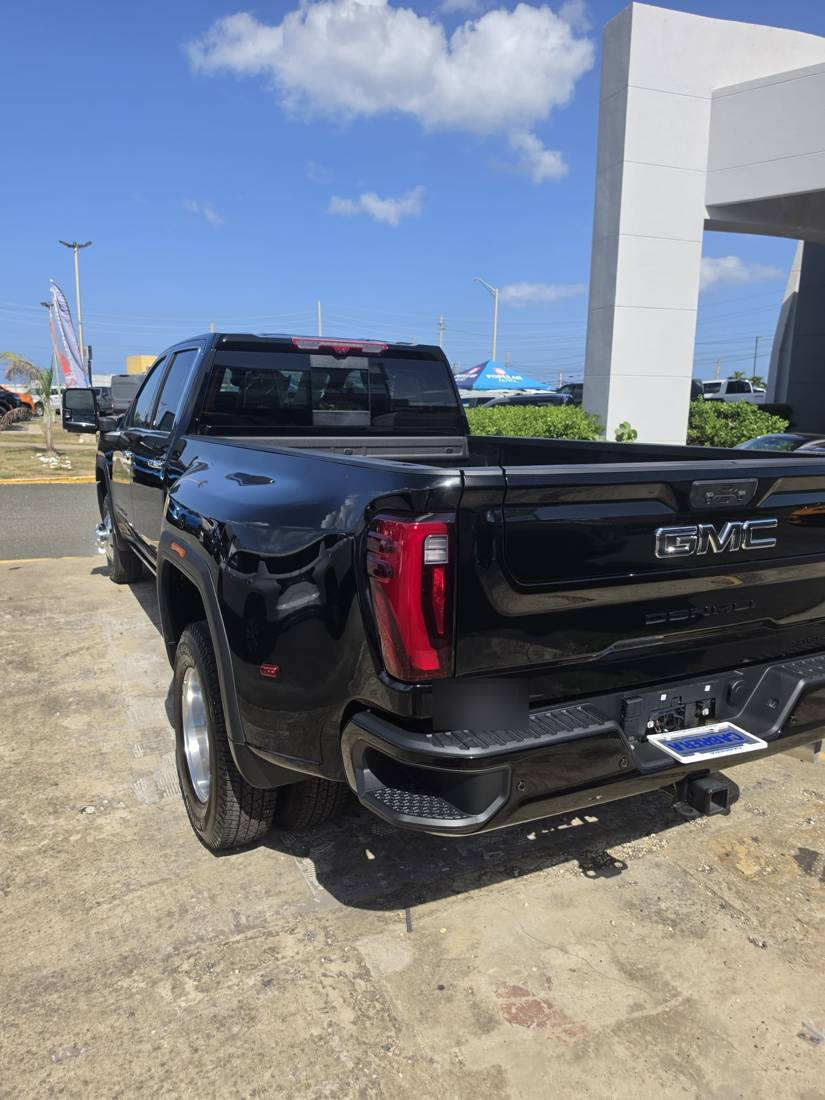
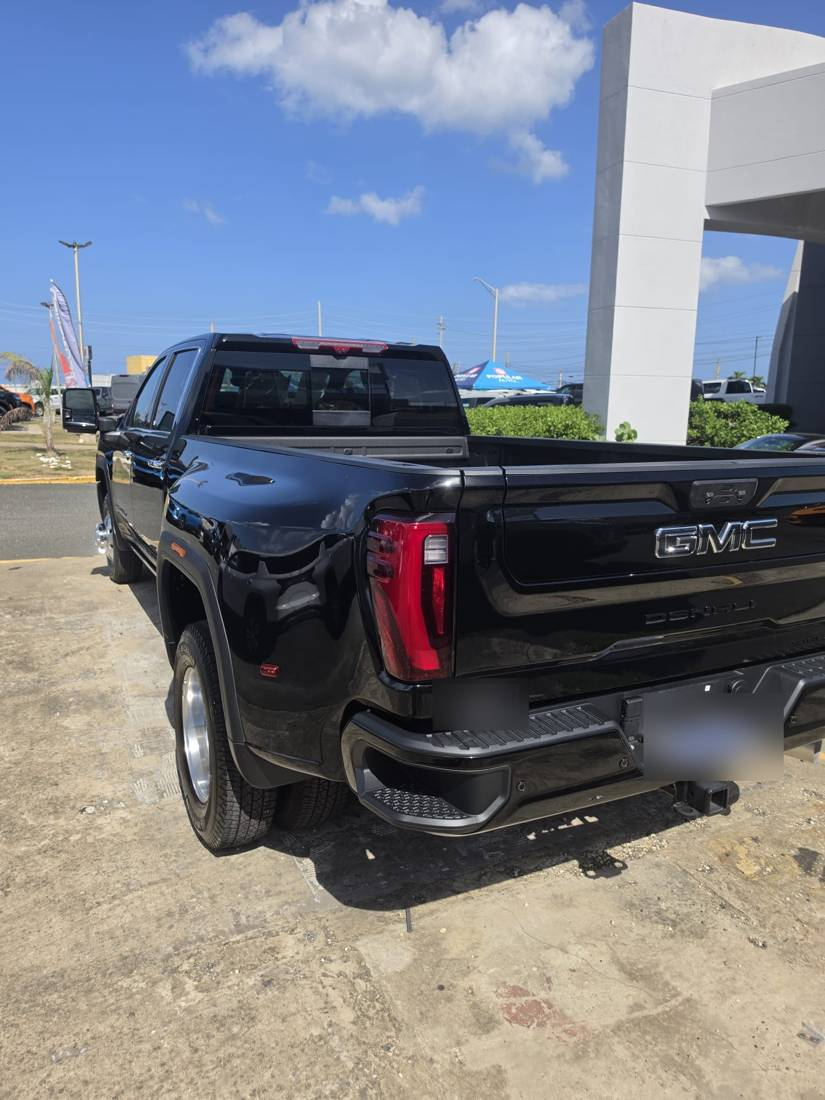
Tapar marcos y emblemas de dealer restantes; visor de fotos móvil arreglado, botón atrás cierra, menú inferior móvil
Claude-Session: https://claude.ai/code/session_01Vix2CLa9gZnaVcPx4aoSg8

Changed region(s): [[0.7576, 0.6182, 0.9697, 0.7109]]

diff --git a/index.html b/index.html
@@ -8,8 +8,8 @@
 <style>
 :root{--bg:#04050a;--bg2:#0a0d16;--card:#0f131e;--line:#1c2233;--txt:#f2f5fb;--mut:#8d96ab;
 --b1:#3d6a96;--b2:#9fb6cc;--b3:#c9a86a;--grad:linear-gradient(120deg,#22374f 0%,#3d6a96 50%,#6f93b6 100%);--gradt:linear-gradient(100deg,#f1f3f6 0%,#b9c7d6 45%,#7f9cb8 100%);--gold:linear-gradient(120deg,#8a6d3b,#d8bb7d 50%,#a8854a)}
-*{box-sizing:border-box;margin:0;padding:0}html{scroll-behavior:smooth}
-body{background:var(--bg);color:var(--txt);font-family:Inter,system-ui,sans-serif;line-height:1.5;overflow-x:hidden}
+*{box-sizing:border-box;margin:0;padding:0}html{scroll-behavior:smooth;overflow-x:clip;max-width:100%}
+body{background:var(--bg);color:var(--txt);font-family:Inter,system-ui,sans-serif;line-height:1.5;overflow-x:clip;max-width:100%}
 a{color:inherit;text-decoration:none}img{display:block;max-width:100%}button,input,select,textarea{font:inherit;color:inherit}
 .wrap{max-width:1260px;margin:0 auto;padding:0 20px}
 .h2{font-family:"Barlow Condensed","Oswald","Arial Narrow",sans-serif;font-size:clamp(32px,4.4vw,52px);text-transform:uppercase;line-height:1}
@@ -22,7 +22,7 @@ a{color:inherit;text-decoration:none}img{display:block;max-width:100%}button,inp
 .btn.wa{background:linear-gradient(120deg,#13a34a,#3ddc84)}
 .btn.sm{padding:9px 16px;font-size:13px}
 /* ticker */
-.ticker{background:linear-gradient(90deg,#0d1118,#1b2533 50%,#0d1118);color:#d7dee8;border-bottom:1px solid rgba(201,168,106,.25);font-weight:600;font-size:13px;overflow:hidden;white-space:nowrap;position:relative;z-index:41}
+.ticker{contain:paint;max-width:100vw;background:linear-gradient(90deg,#0d1118,#1b2533 50%,#0d1118);color:#d7dee8;border-bottom:1px solid rgba(201,168,106,.25);font-weight:600;font-size:13px;overflow:hidden;white-space:nowrap;position:relative;z-index:41}
 .ticker .row{display:inline-flex;gap:46px;padding:9px 0;animation:tick 60s linear infinite}
 .ticker:hover .row{animation-play-state:paused}
 .ticker span{display:inline-flex;align-items:center;gap:46px}.ticker span::after{content:"◆";color:#c9a86a;opacity:.8;font-size:9px}
@@ -47,7 +47,7 @@ header{position:sticky;top:0;z-index:40;background:rgba(4,5,10,.72);backdrop-fil
 .now small{color:var(--mut);font-size:12px;text-transform:uppercase;letter-spacing:.12em}.now b{display:block;font-family:"Barlow Condensed","Arial Narrow",sans-serif;font-size:28px;text-transform:uppercase;line-height:1.05}.now em{font-style:normal;color:#9fd8ff}
 .dots{position:absolute;right:24px;top:24px;z-index:3;display:flex;gap:8px}
 .dots button{width:28px;height:4px;border-radius:4px;border:0;background:rgba(255,255,255,.25);cursor:pointer;padding:0;transition:.3s}.dots button.on{width:52px;background:var(--gold)}
-@media(max-width:800px){.now{display:none}.hero{height:auto;min-height:0}.hero .in{padding-top:56px;padding-bottom:70px;height:auto}.hero h1{font-size:52px}.hero p{font-size:16px}.dots{top:auto;bottom:24px;right:50%;transform:translateX(50%)}.cat b{font-size:20px}.ticker{font-size:12px}}
+@media(max-width:800px){.now{display:none}.hero{height:auto;min-height:0}.hero .in{padding-top:56px;padding-bottom:70px;height:auto}.hero h1{font-size:52px}.hero p{font-size:16px}.dots{top:auto;bottom:24px;right:50%;transform:translateX(50%)}.cat b{font-size:20px}.ticker{contain:paint;max-width:100vw;font-size:12px}}
 .qs{display:grid;grid-template-columns:1.1fr 1.1fr 1fr 1.4fr auto;gap:8px;margin-top:30px;max-width:900px;background:rgba(10,13,22,.6);backdrop-filter:blur(14px);border:1px solid rgba(255,255,255,.12);border-radius:20px;padding:10px}
 .qs select,.qs input{background:rgba(0,0,0,.45);border:1px solid rgba(255,255,255,.1);border-radius:12px;padding:12px;width:100%}
 @media(max-width:800px){.qs{grid-template-columns:1fr 1fr}.qs .btn{grid-column:span 2}}
@@ -119,15 +119,20 @@ footer{margin-top:80px;border-top:1px solid var(--line);padding:36px 0;color:var
 .fab{position:fixed;right:20px;bottom:20px;z-index:50;width:60px;height:60px;border-radius:50%;display:grid;place-items:center;font-size:26px;background:linear-gradient(120deg,#13a34a,#3ddc84);box-shadow:0 12px 30px rgba(0,0,0,.5);animation:pulse 2.4s infinite}
 @keyframes pulse{0%,100%{box-shadow:0 0 0 0 rgba(61,220,132,.5)}50%{box-shadow:0 0 0 14px rgba(61,220,132,0)}}
 /* modals */
-.modal{position:fixed;inset:0;z-index:60;background:rgba(2,3,6,.94);display:none;flex-direction:column}.modal.on{display:flex}
-.mtop{display:flex;justify-content:space-between;align-items:center;padding:14px 20px;gap:12px}.mtop h3{font-family:"Barlow Condensed","Arial Narrow",sans-serif;font-size:28px;text-transform:uppercase}
+.modal{position:fixed;inset:0;z-index:60;background:#05070b;display:none;flex-direction:column}.modal.on{display:flex}
+.mtop{flex:none;display:flex;justify-content:space-between;align-items:center;padding:14px 20px;gap:12px}.mtop h3{font-family:"Barlow Condensed","Arial Narrow",sans-serif;font-size:28px;text-transform:uppercase}
 .x{width:42px;height:42px;border-radius:50%;border:1px solid rgba(255,255,255,.25);background:none;color:#fff;font-size:20px;cursor:pointer;flex:none}
-.stage{flex:1;position:relative;display:flex;align-items:center;justify-content:center;min-height:0}.stage img{max-width:100%;max-height:100%;object-fit:contain}
+.stage{flex:1;position:relative;min-height:0;overflow:hidden}.stage img{position:absolute;inset:0;width:100%;height:100%;object-fit:contain}
 .sarw{position:absolute;top:50%;transform:translateY(-50%);width:50px;height:50px;border-radius:50%;border:0;background:var(--grad);color:#fff;font-size:24px;cursor:pointer}.sarw.l{left:14px}.sarw.r{right:14px}
-.thumbs{display:flex;gap:8px;overflow-x:auto;padding:12px 20px}.thumbs img{height:62px;width:84px;object-fit:cover;border-radius:8px;opacity:.45;cursor:pointer;flex:none}.thumbs img.on{opacity:1;outline:2px solid #c9a86a}
-.mfoot{display:flex;justify-content:space-between;align-items:center;gap:10px;flex-wrap:wrap;padding:0 20px 18px;color:var(--mut)}
+.thumbs{flex:none;display:flex;gap:8px;overflow-x:auto;padding:12px 20px}.thumbs img{height:62px;width:84px;object-fit:cover;border-radius:8px;opacity:.45;cursor:pointer;flex:none}.thumbs img.on{opacity:1;outline:2px solid #c9a86a}
+.mfoot{flex:none;display:flex;justify-content:space-between;align-items:center;gap:10px;flex-wrap:wrap;padding:0 20px 18px;color:var(--mut)}
 .allb{background:var(--bg);overflow:auto;padding:20px}.allb .grid2{display:grid;grid-template-columns:repeat(auto-fill,minmax(190px,1fr));gap:14px;max-width:1200px;margin:0 auto;width:100%}
 .allb .brand{width:auto}
+.x{background:rgba(255,255,255,.08)}
+.bnav{display:none}
+@media(max-width:800px){.bnav{display:grid;grid-template-columns:repeat(5,1fr);position:fixed;left:0;right:0;bottom:0;z-index:55;background:rgba(8,10,16,.94);backdrop-filter:blur(14px);border-top:1px solid rgba(201,168,106,.25);padding:6px 4px calc(6px + env(safe-area-inset-bottom))}
+.bnav a{display:flex;flex-direction:column;align-items:center;gap:2px;font-size:11px;color:#aeb7c8;padding:4px 0}.bnav a span{font-size:20px;line-height:1}.bnav a.wa span{color:#3ddc84}
+body{padding-bottom:70px}.fab{display:none}.modal{bottom:0}.mfoot{padding-bottom:calc(18px + env(safe-area-inset-bottom))}.mtop{padding-top:calc(14px + env(safe-area-inset-top))}.x{width:48px;height:48px;font-size:24px}}
 .reveal{opacity:0;transform:translateY(24px);transition:opacity .8s,transform .8s}.reveal.in{opacity:1;transform:none}
 </style></head><body>
 <div class="ticker" aria-label="Novedades"><div class="row" id="tk"></div></div>
@@ -188,6 +193,7 @@ footer{margin-top:80px;border-top:1px solid var(--line);padding:36px 0;color:var
 <footer><img src="img/logo.jpg" alt="">© 2026 CMR Auto Trade · Confianza · Calidad · Compromiso · Inventario sujeto a disponibilidad.</footer>
 <a class="fab" href="https://wa.me/17876404129?text=Hola%20CMR%20Auto%20Trade%2C%20quiero%20informaci%C3%B3n." target="_blank" rel="noopener" aria-label="WhatsApp">💬</a>
 
+<nav class="bnav" aria-label="Menú"><a href="#inicio" data-nav><span>⌂</span>Inicio</a><a href="#marcas" data-nav><span>◎</span>Marcas</a><a href="#inventario" data-nav><span>▦</span>Inventario</a><a href="#contacto" data-nav><span>✉</span>Contacto</a><a class="wa" href="https://wa.me/17876404129?text=Hola%20CMR%20Auto%20Trade%2C%20quiero%20informaci%C3%B3n." target="_blank" rel="noopener"><span>💬</span>WhatsApp</a></nav>
 <div class="modal" id="m"><div class="mtop"><div><div class="kick" id="mLot"></div><h3 id="mName"></h3></div><button class="x" id="mx">×</button></div>
 <div class="stage"><button class="sarw l" id="pv">‹</button><img id="mImg" alt=""><button class="sarw r" id="nx">›</button></div>
 <div class="thumbs" id="mTh"></div><div class="mfoot"><span id="mMeta"></span><a class="btn wa" id="mWa" target="_blank" rel="noopener">Me interesa · WhatsApp</a></div></div>
@@ -220,9 +226,9 @@ $('#fu').innerHTML+=opt(INV.map(v=>[v.id,`${v.id} · ${v.name}`]));
 const btile=b=>`<div class="brand${st.make===b.k?' on':''}" data-make="${b.k}" title="${b.k}">${b.logo?`<div class="lg"><img src="${b.logo}" alt="${b.k}" loading="lazy"></div>`:''}<i>${b.n}</i><b>${b.k}</b></div>`;
 function drawBrands(){$('#br').innerHTML=BRANDS.map(btile).join('')}
 function drawAll(f=''){$('#abg').innerHTML=BRANDS.filter(b=>b.k.toLowerCase().includes(f.toLowerCase())).map(btile).join('')}
-$('#allBtn').onclick=()=>{drawAll();$('#ab').classList.add('on');document.body.style.overflow='hidden'};
-$('#abx').onclick=()=>{$('#ab').classList.remove('on');document.body.style.overflow=''};$('#abq').oninput=e=>drawAll(e.target.value);
-document.addEventListener('click',e=>{const b=e.target.closest('[data-make]');if(b){setF({make:st.make===b.dataset.make?'':b.dataset.make});$('#ab').classList.remove('on');document.body.style.overflow='';return}
+$('#allBtn').onclick=()=>{drawAll();$('#ab').classList.add('on');document.body.style.overflow='hidden';history.pushState({m:1},'','#marcas-todas')};
+$('#abx').onclick=close;$('#abq').oninput=e=>drawAll(e.target.value);
+document.addEventListener('click',e=>{const b=e.target.closest('[data-make]');if(b){const wasOpen=$('#ab').classList.contains('on');if(wasOpen)close();setF({make:st.make===b.dataset.make?'':b.dataset.make});return}
 const c=e.target.closest('[data-cat]');if(c){setF({cat:st.cat===c.dataset.cat?'':c.dataset.cat})}
 const r=e.target.closest('[data-r]');if(r){const t=document.getElementById(r.dataset.r);t.scrollBy({left:(r.classList.contains('l')?-1:1)*t.clientWidth*.8,behavior:'smooth'})}});
 // cats
@@ -250,12 +256,15 @@ document.addEventListener('click',e=>{const c=e.target.closest('.card');if(c)ope
 function open(v){if(!v)return;cur=v;idx=0;$('#mLot').textContent=v.id+' · '+v.cond;$('#mName').textContent=v.name;
  $('#mMeta').textContent=[v.body,v.color,v.miles!=null?Number(v.miles).toLocaleString('en-US')+' millas':'',v.price?fmt(v.price):'Precio: consultar'].filter(Boolean).join(' · ');
  $('#mWa').href=wa(`Hola CMR, me interesa la unidad ${v.id}: ${v.name}. ¿Está disponible?`);
- $('#mTh').innerHTML=v.photos.map((p,i)=>`<img src="${p}" data-i="${i}">`).join('');show();$('#m').classList.add('on');document.body.style.overflow='hidden'}
+ $('#mTh').innerHTML=v.photos.map((p,i)=>`<img src="${p}" data-i="${i}">`).join('');show();$('#m').classList.add('on');document.body.style.overflow='hidden';history.pushState({m:1},'','#fotos')}
 function show(){$('#mImg').src=cur.photos[idx];document.querySelectorAll('#mTh img').forEach((t,i)=>t.classList.toggle('on',i===idx));$('#pv').style.display=$('#nx').style.display=cur.photos.length>1?'':'none'}
-function close(){$('#m').classList.remove('on');document.body.style.overflow=''}
+function hideAll(){$('#m').classList.remove('on');$('#ab').classList.remove('on');document.body.style.overflow=''}
+function close(){if(history.state&&history.state.m)history.back();else hideAll()}
+window.addEventListener('popstate',hideAll);
+document.addEventListener('click',e=>{if(e.target.closest('[data-nav]'))hideAll()});
 $('#mx').onclick=close;$('#pv').onclick=()=>{idx=(idx-1+cur.photos.length)%cur.photos.length;show()};$('#nx').onclick=()=>{idx=(idx+1)%cur.photos.length;show()};
 $('#mTh').onclick=e=>{if(e.target.dataset.i){idx=+e.target.dataset.i;show()}};
-document.onkeydown=e=>{if(e.key==='Escape'){close();$('#abx').click()}if(!$('#m').classList.contains('on'))return;if(e.key==='ArrowRight')$('#nx').click();if(e.key==='ArrowLeft')$('#pv').click()};
+document.onkeydown=e=>{if(e.key==='Escape'){close()}if(!$('#m').classList.contains('on'))return;if(e.key==='ArrowRight')$('#nx').click();if(e.key==='ArrowLeft')$('#pv').click()};
 let sx=0;$('.stage').addEventListener('touchstart',e=>sx=e.touches[0].clientX);$('.stage').addEventListener('touchend',e=>{const d=e.changedTouches[0].clientX-sx;if(Math.abs(d)>40)(d<0?$('#nx'):$('#pv')).click()});
 // contact → WhatsApp
 $('#f').onsubmit=e=>{e.preventDefault();const u=INV.find(v=>v.id===$('#fu').value);
